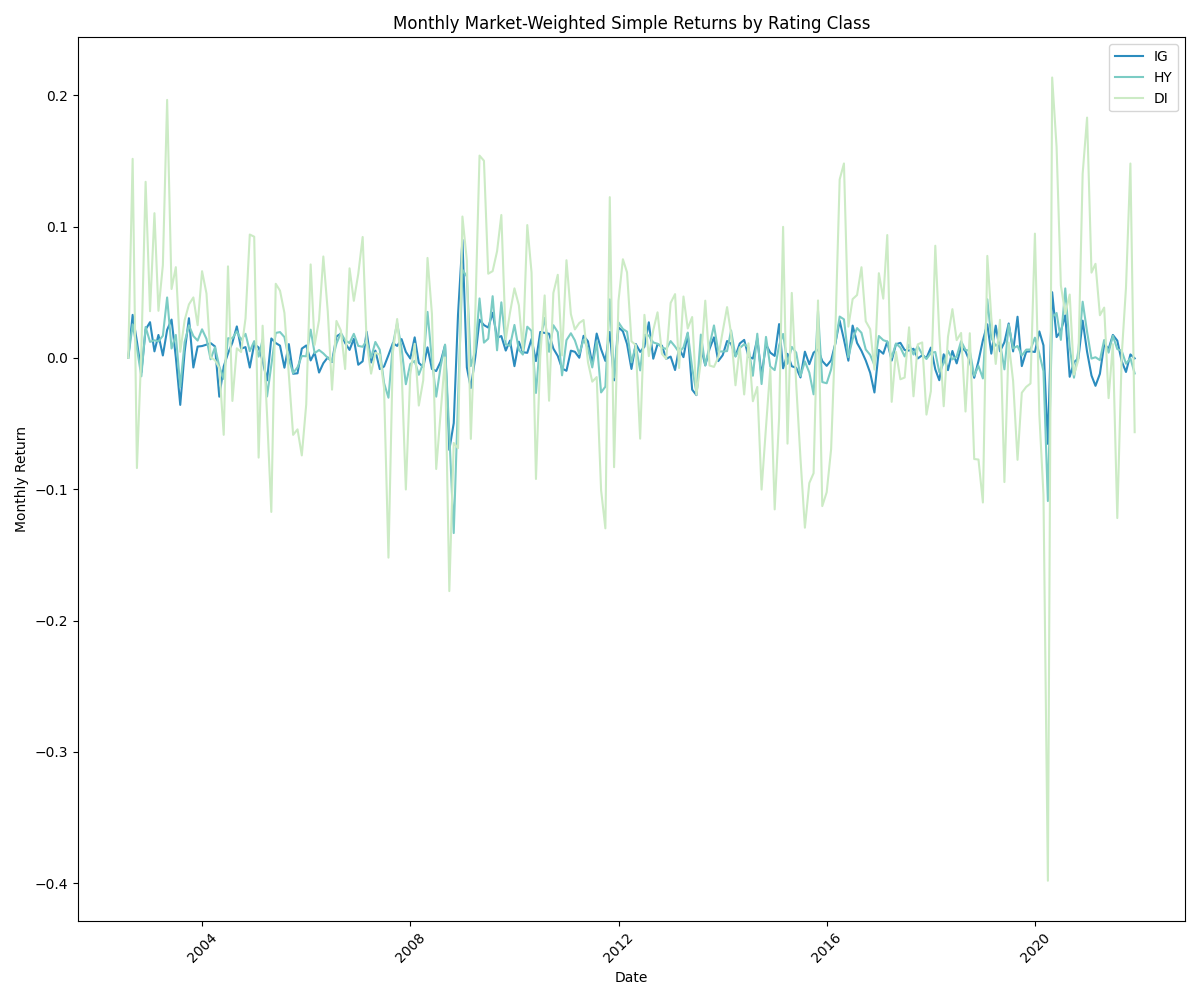
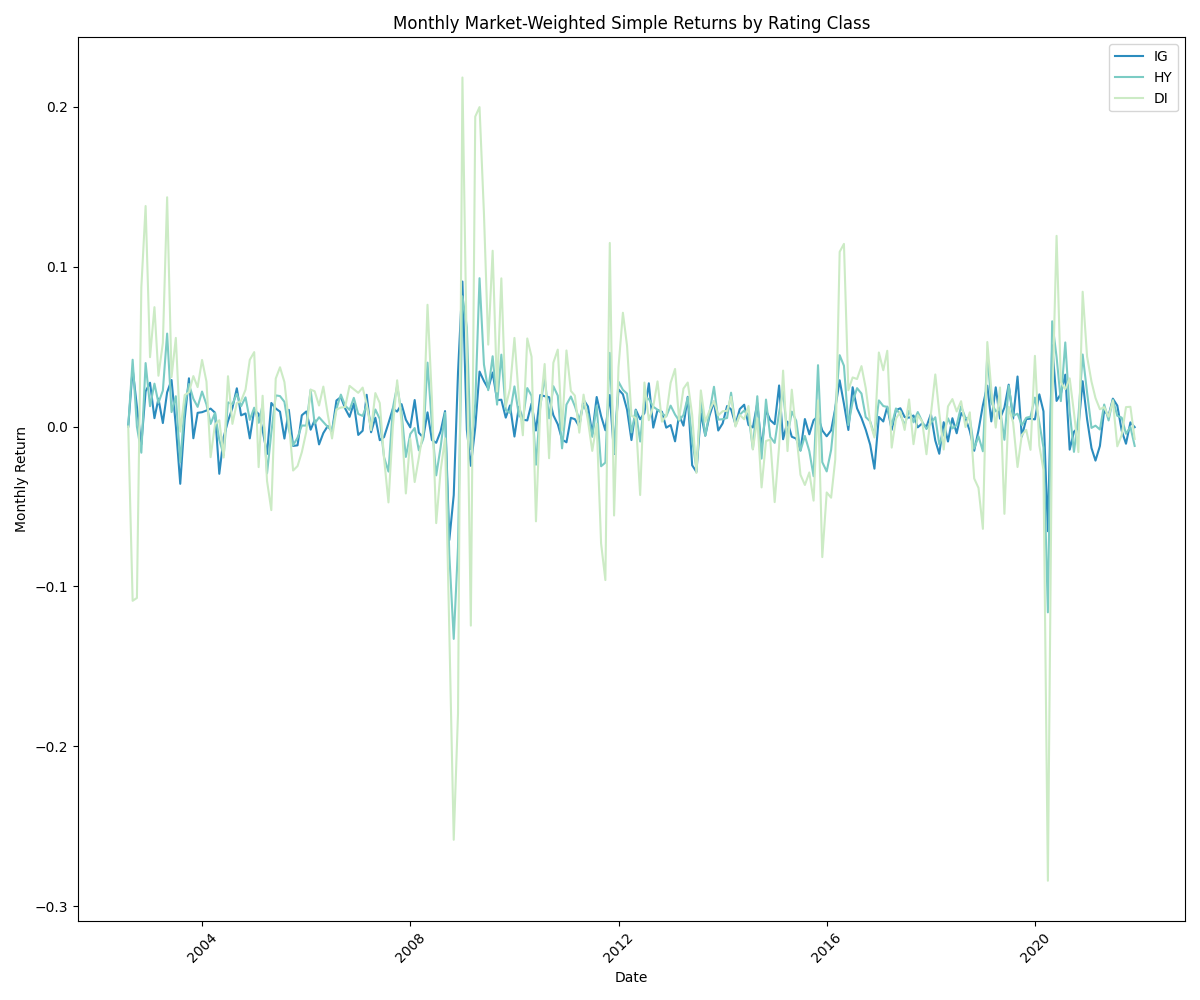
pushing

diff --git a/py_code/alpha_code.py b/py_code/alpha_code.py
@@ -26,26 +26,26 @@ unique_months = model_data['eom'].unique()
 
 # Add portfolio to the model_data 
 model_data['portfolio'] = np.nan
-model_data.loc[model_data['credit_spread_start'] > 0.1, 'portfolio'] = 'DI'
-#model_data.loc[model_data['distressed_rating_start'] == True , 'portfolio'] = 'DI'
+#model_data.loc[model_data['credit_spread_start'] > 0.1, 'portfolio'] = 'DI'
+model_data.loc[model_data['distressed_rating_start'] == True , 'portfolio'] = 'DI'
 model_data.loc[model_data['portfolio'].isnull() & (model_data['rating_class_start'] == '0.IG'), 'portfolio'] = 'IG'
 model_data.loc[model_data['portfolio'].isnull() & (model_data['rating_class_start'] == '1.HY'), 'portfolio'] = 'HY'
 
-# Split DI into DI_low and DI_high based on cap_gain_overhang_start threshold (-10)
-for month in unique_months:
-    # Filter for DI bonds in the current month
-    di_mask = (model_data['eom'] == month) & (model_data['portfolio'] == 'DI')
-    di_bonds = model_data.loc[di_mask]
+# # Split DI into DI_low and DI_high based on cap_gain_overhang_start threshold (-10)
+# for month in unique_months:
+#     # Filter for DI bonds in the current month
+#     di_mask = (model_data['eom'] == month) & (model_data['portfolio'] == 'DI')
+#     di_bonds = model_data.loc[di_mask]
     
-    if len(di_bonds) > 0:
-        # Assign DI_high to bonds with cap_gain_overhang_start > -10
-        high_indices = di_bonds[di_bonds['cap_gain_overhang_start'] > -10]  .index
+#     if len(di_bonds) > 0:
+#         # Assign DI_high to bonds with cap_gain_overhang_start > -10
+#         high_indices = di_bonds[di_bonds['cap_gain_overhang_start'] > -10]  .index
         
-        # Assign DI_low to bonds with cap_gain_overhang_start <= -10
-        low_indices = di_bonds[di_bonds['cap_gain_overhang_start'] <= -10].index
+#         # Assign DI_low to bonds with cap_gain_overhang_start <= -10
+#         low_indices = di_bonds[di_bonds['cap_gain_overhang_start'] <= -10].index
         
-        model_data.loc[high_indices, 'portfolio'] = 'DI_high'
-        model_data.loc[low_indices, 'portfolio'] = 'DI_low'
+#         model_data.loc[high_indices, 'portfolio'] = 'DI_high'
+#         model_data.loc[low_indices, 'portfolio'] = 'DI_low'
 
 ### Calculating returns for portfolios
 groups = model_data['portfolio'].dropna().unique().tolist()
@@ -95,8 +95,7 @@ for dt in dates:
 
         group_ret_exc[grp].append(weighted_return_exc)
 
-
-    # Total market return across all portfolios (optional, but common)
+    # Total market return across all portfolios
     total_mv_all = current_period['market_value_start'].sum()
     if total_mv_all > 0:
         weights_all = current_period['market_value_start'] / total_mv_all
@@ -197,20 +196,20 @@ exc_returns_df = exc_returns_df.join(stock_returns[['stock_ret_exc']], how='left
 exc_regression_df = exc_returns_df.iloc[:]
 #exc_regression_df = exc_regression_df * 12
 
-# # Define the independent variable (market excess return) and add a constant
-# X = sm.add_constant(exc_regression_df[['market_ret_texc', 'term', 'stock_ret_exc']])
+# Define the independent variable (market excess return) and add a constant
+X = sm.add_constant(exc_regression_df[['market_ret_texc', 'term']])
 
-# # Store results in a dictionary
-# exc_regression_results = {}
+# Store results in a dictionary
+exc_regression_results = {}
 
-# # Loop through each portfolio and run the regression
-# for portfolio in groups: 
-#     y = exc_regression_df[portfolio]
-#     model = sm.OLS(y, X).fit(cov_type='HAC', cov_kwds={'maxlags': 4})
-#     exc_regression_results[portfolio] = model
-#     print(f"Regression results using ret_exc for {portfolio}:\n{model.summary()}\n")
+# Loop through each portfolio and run the regression
+for portfolio in groups: 
+    y = exc_regression_df[portfolio]
+    model = sm.OLS(y, X).fit(cov_type='HAC', cov_kwds={'maxlags': 4})
+    exc_regression_results[portfolio] = model
+    print(f"Regression results using ret_exc for {portfolio}:\n{model.summary()}\n")
 
-print(texc_regression_df)
+# print(texc_regression_df)
 
 # # Shape ratios
 # print(exc_regression_df.tail())
@@ -225,14 +224,123 @@ print(texc_regression_df)
 # print("Standard deviation of excess return:\n" + exc_returns_std.to_string())
 # print("Sharpe ratio:\n" + exc_returns_sharpe.to_string())
 
-# Cumulative return
-cum_return = (1 + texc_regression_df['DI_high']).prod() - 1
+# # Cumulative return
+# cum_return = (1 + texc_regression_df['DI']).prod() - 1
 
-# Number of months
-n_months = texc_regression_df.shape[0]
+# # Number of months
+# n_months = texc_regression_df.shape[0]
 
-# Annualized return
-annualized_return = (1 + cum_return) ** (12 / n_months) - 1
+# # Annualized return
+# annualized_return = (1 + cum_return) ** (12 / n_months) - 1
 
-print(f"Cumulative pure credit market return: {cum_return:.4%}")
-print(f"Annualized pure credit market return: {annualized_return:.4%}")
+# print(f"Cumulative pure credit market return: {cum_return:.4%}")
+# print(f"Annualized pure credit market return: {annualized_return:.4%}")
+
+### Using methods of Avramov et al. (2022) to calculate the alpha
+### Calculating returns for portfolios
+
+#model_data = model_data[model_data['ret'].abs() < 0.2]
+
+groups = model_data['portfolio'].dropna().unique().tolist()
+
+# Initialize storage for returns
+group_ret_exc_avramov = {grp: [] for grp in groups}
+market_ret_exc_avramov = []
+date_series = []
+
+# Get list of unique month-end dates
+dates = sorted(model_data['eom'].dropna().unique())
+
+# Loop through each month
+for dt in dates:
+    current_period = model_data[model_data['eom'] == dt]
+
+    # Skip if no data
+    if current_period.empty:
+        continue
+
+    date_series.append(dt)
+
+    # Compute returns (texc) for each group
+    for grp in groups:
+        group_data = current_period[current_period['portfolio'] == grp]
+        total_mv = group_data['market_value_start'].sum()
+
+        if len(group_data) > 0 and total_mv > 0:
+            weights = group_data['market_value_start'] / total_mv
+            weighted_return = (weights * group_data['ret_exc']).sum()
+        else:
+            weighted_return = 0
+
+        group_ret_exc_avramov[grp].append(weighted_return)
+
+    # Total market return across all portfolios
+    total_mv_all = current_period['amount_outstanding'].sum()
+    if total_mv_all > 0:
+        weights_all = current_period['amount_outstanding'] / total_mv_all
+        weighted_return_all = (weights_all * current_period['ret_exc']).sum()
+    else:
+        weighted_return_all = 0
+    market_ret_exc_avramov.append(weighted_return_all)
+
+
+# Import data on size of US bond and US stock markets
+stock_size = fred.get_series('BOGZ1LM883164105Q') 
+bond_size = fred.get_series('ASCFBL') 
+
+# Convert to monthly frequency and forward fill missing values
+stock_size = stock_size.resample('M').last().ffill()
+bond_size = bond_size.resample('M').last().ffill()
+stock_size = stock_size.loc['2002-08-30':'2024-07-31']
+bond_size = bond_size.loc['2002-08-30':'2024-07-31']
+
+# Calculate weights
+stock_weight = stock_size / (stock_size + bond_size)
+bond_weight = bond_size / (stock_size + bond_size)
+
+# Construct market return
+bond_market_ret_exc_series_avramov = pd.Series(market_ret_exc_avramov, index=pd.to_datetime(date_series))
+market_return = (stock_weight * stock_returns['stock_ret_exc']) + (bond_weight * bond_market_ret_exc_series_avramov)
+
+# Collecting into a single dataframe
+returns_arvamov_df = pd.DataFrame(group_ret_exc_avramov, index=pd.to_datetime(date_series))
+returns_arvamov_df['market_ret_exc'] = market_return
+
+# Define the independent variable (market excess return) and add a constant
+X = sm.add_constant(returns_arvamov_df[['market_ret_exc']])
+
+# Store results in a dictionary
+avramov_regression_results = {}
+
+# Loop through each portfolio and run the regression
+for portfolio in groups: 
+    y = returns_arvamov_df[portfolio]
+    model = sm.OLS(y, X).fit(cov_type='HAC', cov_kwds={'maxlags': 4})
+    avramov_regression_results[portfolio] = model
+    print(f"Regression results using ret_exc for {portfolio}:\n{model.summary()}\n")
+
+### Testing the alpha spread
+
+# Extract constants and standard errors
+alpha_IG = avramov_regression_results['IG'].params['const']
+alpha_DI = avramov_regression_results['DI'].params['const']
+
+se_IG = avramov_regression_results['IG'].bse['const']
+se_DI = avramov_regression_results['DI'].bse['const']
+
+# Difference in constants
+delta = alpha_IG - alpha_DI
+se_delta = (se_IG**2 + se_DI**2)**0.5
+t_stat = delta / se_delta
+
+# Degrees of freedom (approximate)
+df = min(avramov_regression_results['IG'].df_resid, avramov_regression_results['DI'].df_resid)
+
+# p-value (two-tailed test)
+from scipy import stats
+p_value = 2 * stats.t.sf(abs(t_stat), df)
+
+print(f"Difference in constants (alpha_IG - alpha_DI): {delta:.6f}")
+print(f"Standard error of the difference: {se_delta:.6f}")
+print(f"t-statistic: {t_stat:.3f}")
+print(f"p-value: {p_value:.4f}")

diff --git a/py_code/descriptive_statistics.py b/py_code/descriptive_statistics.py
@@ -35,7 +35,7 @@ bond_data_large['eom'] = pd.to_datetime(bond_data_large['eom'])
 bond_data['eom'] = pd.to_datetime(bond_data['eom'])
 bond_warga_data['eom'] = pd.to_datetime(bond_warga_data['eom'])
 
-model_data = bond_data[['eom', 'cusip', 'ret', 'ret_exc', 'ret_texc', 'credit_spread_start', 'rating_class_start', 'market_value_start', 'price_eom', 'price_eom_start', 'offering_date', 'distressed_rating_start']]
+model_data = bond_data[['eom', 'cusip', 'ret', 'ret_exc', 'ret_texc', 'credit_spread_start', 'rating_class_start', 'market_value_start', 'price_eom', 'price_eom_start', 'offering_date', 'distressed_rating_start', 'amount_outstanding']]
 model_data['eom'] = pd.to_datetime(model_data['eom'])
 model_data['offering_date'] = pd.to_datetime(model_data['offering_date'])
 model_data.to_csv("data/preprocessed/model_data.csv") #saving the smaller dataframe
